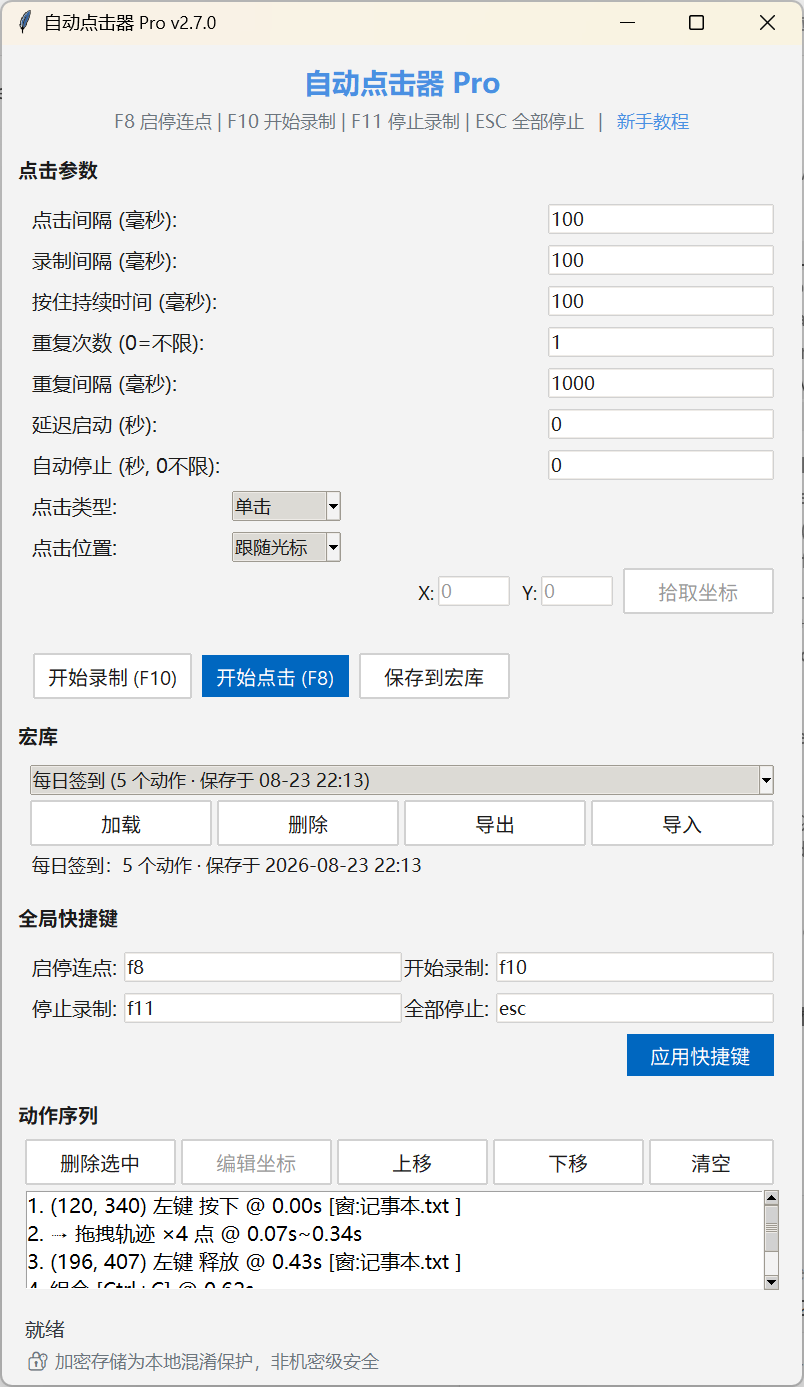
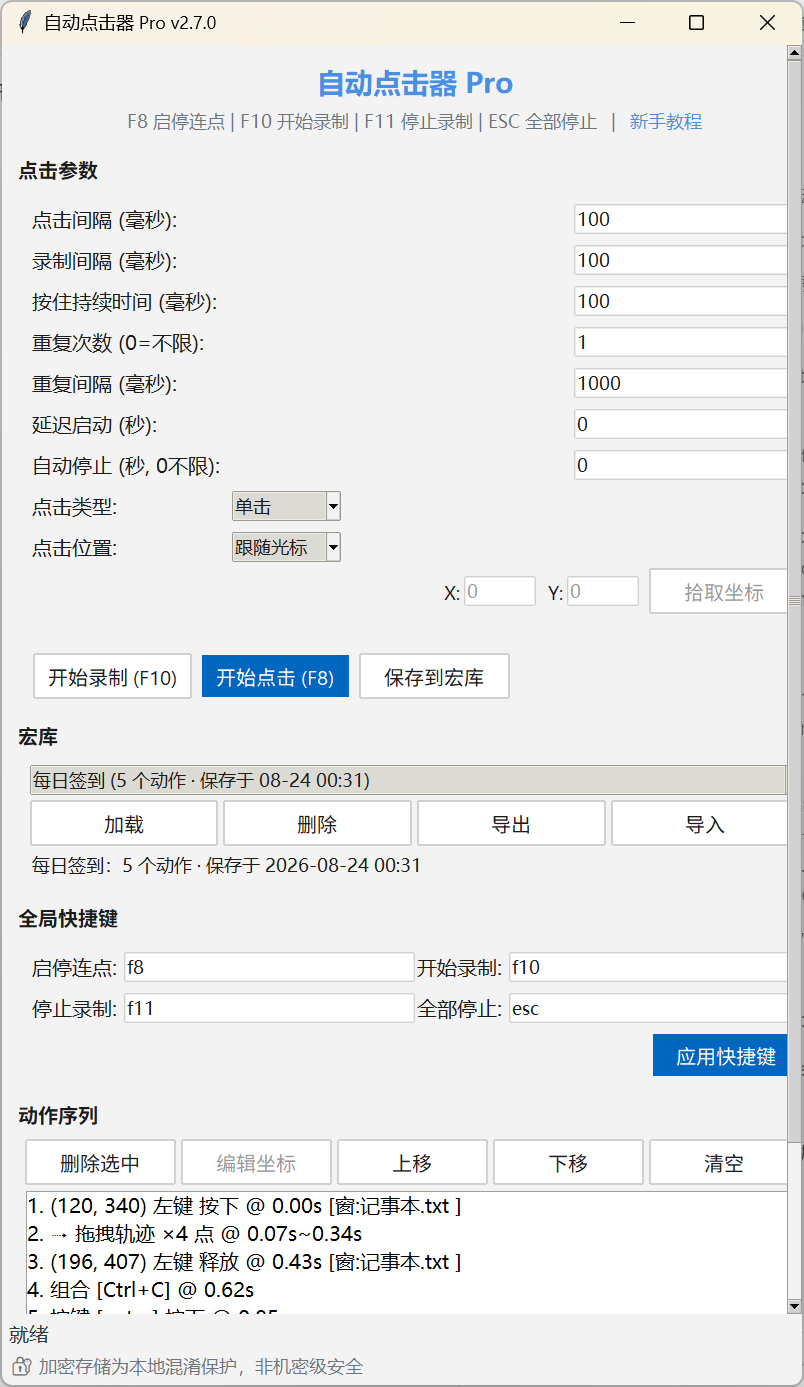
feat: 窗口过小时内容区可滚动，状态栏固定底部 (v2.7.1)
用户反馈小窗口时底部按钮被挡住。重构主布局：

- 内容区包进 Canvas + 竖向滚动条：放不下时滚动条自动出现
  （滚轮在任意控件上均可滑动，动作列表保留原生滚动），
  放得下时滚动条隐藏、动作列表吃掉全部余量
- 状态栏移出滚动区固定底部，不再随内容滚走
- 最小高度 640 -> 520（滚动补偿小窗口）；新增最小宽度自适应
- 文档新增 scrolling.png 演示图与"窗口太小时？"章节

测试 165 项全绿；主界面/录制/教程三张截图按新布局重生成。

diff --git a/ui/app.py b/ui/app.py
@@ -144,17 +144,42 @@ class AutoClickerApp:
         self.root.protocol("WM_DELETE_WINDOW", self.on_close)
     
     def _create_ui(self):
-        """创建用户界面"""
-        # 主框架（窗口四周留出呼吸边距）
-        main_frame = ttk.Frame(self.root, padding=(PADDING_WINDOW, PADDING_WINDOW,
-                                                   PADDING_WINDOW, PADDING_SMALL))
-        main_frame.grid(row=0, column=0, sticky="nsew")
+        """创建用户界面
 
-        # 配置网格权重（动作列表所在行才是可伸缩的主体区域）
+        布局：外层 = 可滚动内容画布（row0，随窗口伸缩） + 固定状态栏（row1）。
+        窗口过小放不下全部内容时自动出现竖向滚动条（滚轮/拖动均可），
+        内容放得下时动作列表区吃掉全部余量、滚动条隐藏。
+        """
+        # 外层框架
+        outer = ttk.Frame(self.root)
+        outer.grid(row=0, column=0, sticky="nsew")
         self.root.columnconfigure(0, weight=1)
         self.root.rowconfigure(0, weight=1)
+        outer.columnconfigure(0, weight=1)
+        outer.rowconfigure(0, weight=1)
+
+        # 滚动画布 + 竖向滚动条（初始隐藏）
+        self.canvas = tk.Canvas(outer, highlightthickness=0)
+        self.canvas.configure(yscrollincrement=40)
+        self.v_scrollbar = ttk.Scrollbar(outer, orient="vertical",
+                                         command=self.canvas.yview)
+        self.canvas.configure(yscrollcommand=self.v_scrollbar.set)
+        self.canvas.grid(row=0, column=0, sticky="nsew")
+        self.v_scrollbar.grid(row=0, column=1, sticky="ns")
+        self.v_scrollbar.grid_remove()
+
+        # 内容主框架（窗口四周留出呼吸边距）
+        main_frame = ttk.Frame(self.canvas,
+                               padding=(PADDING_WINDOW, PADDING_WINDOW,
+                                        PADDING_WINDOW, PADDING_SMALL))
+        self.main_frame = main_frame
+        self._inner_window = self.canvas.create_window(
+            (0, 0), window=main_frame, anchor="nw", tags=("inner",))
+        # 配置网格权重（动作列表所在行才是可伸缩的主体区域）
         main_frame.columnconfigure(0, weight=1)
         main_frame.rowconfigure(6, weight=1)
+        self.canvas.bind("<Configure>", self._on_canvas_resize)
+        main_frame.bind("<Configure>", self._on_inner_resize)
 
         # 标题 + 快捷键提示
         self._create_title(main_frame)
@@ -228,9 +253,54 @@ class AutoClickerApp:
         )
         self.action_list.on_selection_change = self._on_list_selection_change
 
-        # 状态栏
-        self.status_bar = StatusBar(main_frame)
-        self.status_bar.grid(row=7, column=0, sticky="ew")
+        # 状态栏（固定在底部，不随内容滚动）
+        self.status_bar = StatusBar(outer)
+        self.status_bar.grid(row=1, column=0, columnspan=2, sticky="ew")
+
+        # 滚轮：内容区任意控件上滚动均可滑动（列表框保留原生滚动）
+        self._bind_mouse_wheel()
+
+    # ==================== 滚动支持 ====================
+
+    def _on_canvas_resize(self, event):
+        """画布尺寸变化 -> 内框宽度跟随 + 重算滚动区域"""
+        self.canvas.itemconfigure(self._inner_window, width=event.width)
+        self._sync_scroll_region()
+
+    def _on_inner_resize(self, _event=None):
+        """内容尺寸变化 -> 重算滚动区域与滚动条显隐"""
+        self._sync_scroll_region()
+
+    def _sync_scroll_region(self):
+        """内容放不下 -> 显示滚动条；放得下 -> 内框填满画布（列表区吃余量）"""
+        required = self.main_frame.winfo_reqheight()
+        visible = self.canvas.winfo_height()
+        if visible <= 1:
+            return  # 首次布局前画布尚无尺寸
+        if required > visible:
+            self.v_scrollbar.grid()
+            self.canvas.configure(scrollregion=(0, 0, 0, required))
+            self.canvas.itemconfigure(self._inner_window, height=required)
+        else:
+            self.v_scrollbar.grid_remove()
+            self.canvas.configure(scrollregion=(0, 0, 0, visible))
+            self.canvas.itemconfigure(self._inner_window, height=visible)
+
+    def _bind_mouse_wheel(self):
+        """内容区任意控件上滚轮均滑动画布；列表框跳过（保留原生滚动）"""
+        def on_wheel(event):
+            step = -1 if event.delta > 0 else 1
+            self.canvas.yview_scroll(step, "units")
+            return "break"
+
+        def bind_rec(widget):
+            if isinstance(widget, tk.Listbox):
+                return
+            widget.bind("<MouseWheel>", on_wheel, add="+")
+            for child in widget.winfo_children():
+                bind_rec(child)
+
+        bind_rec(self.main_frame)
 
     def _refresh_macro_library(self):
         """重新列举宏库（含元数据）并刷新下拉框"""

diff --git a/config/constants.py b/config/constants.py
@@ -5,11 +5,11 @@
 
 # ==================== 应用程序基础配置 ====================
 APP_NAME = "自动点击器 Pro"
-APP_VERSION = "2.7.0"
+APP_VERSION = "2.7.1"
 APP_WIDTH = 560
 APP_HEIGHT = 760
 APP_MIN_WIDTH = 500
-APP_MIN_HEIGHT = 640
+APP_MIN_HEIGHT = 520   # 高度不足时内容区自动出现滚动条
 
 # ==================== 颜色定义 ====================
 COLOR_PRIMARY = "#4A90E2"

diff --git a/README.md b/README.md
@@ -46,7 +46,7 @@ Do not use it to violate software terms of service, bypass anti-cheat systems, a
 - ✏ **宏编辑** — 对已录制的动作可删除选中 / 上移 / 下移 / 一键清空，无需为单个误触重录整条序列（**已实现**）
 - ⌨ **快捷键自定义** — 四个全局快捷键均可在界面修改（支持 ctrl+shift+x 组合），自动持久化并在下次启动生效（**已实现**）
 - ✏ **坐标微调** — 动作列表选中单个点击/移动动作，可直接修改落点坐标，无需重录（**已实现**）
-- 🎨 **Win11 风格界面** — 基于 ttk 的自定义浅色主题：Segoe UI 字体、蓝(#0067C0)强调色主按钮、扁平卡片与细边框（**已实现**）
+- 🎨 **Win11 风格界面** — 基于 ttk 的自定义浅色主题：Segoe UI 字体、蓝(#0067C0)强调色主按钮、扁平卡片与细边框；窗口过小时内容区自动出现滚动条（滚轮/拖动均可），状态栏固定底部（**已实现**）
 - 🚀 **便携运行** — 单文件 EXE，无需安装 Python（**已实现**）
 
 > 说明：功能均已由单元测试覆盖（含 GUI 冒烟测试），测试数以 CI 实时结果为准。加密存储为本地混淆级保护，详见「合法使用与免责声明」。

diff --git a/docs/TUTORIAL.md b/docs/TUTORIAL.md
@@ -64,6 +64,12 @@
 - 支持删除选中 / 上移 / 下移 / 清空；折叠轨迹可整段删除
 - 选中单个鼠标或移动动作后可用**编辑坐标**微调落点
 
+### 窗口太小时？
+内容区自动出现**竖向滚动条**，鼠标滚轮在界面任意位置即可上下滑动；
+状态栏始终固定在底部，不会被挡住。
+
+![小窗口滚动](screenshots/scrolling.png)
+
 ---
 
 ## 四、快捷键
